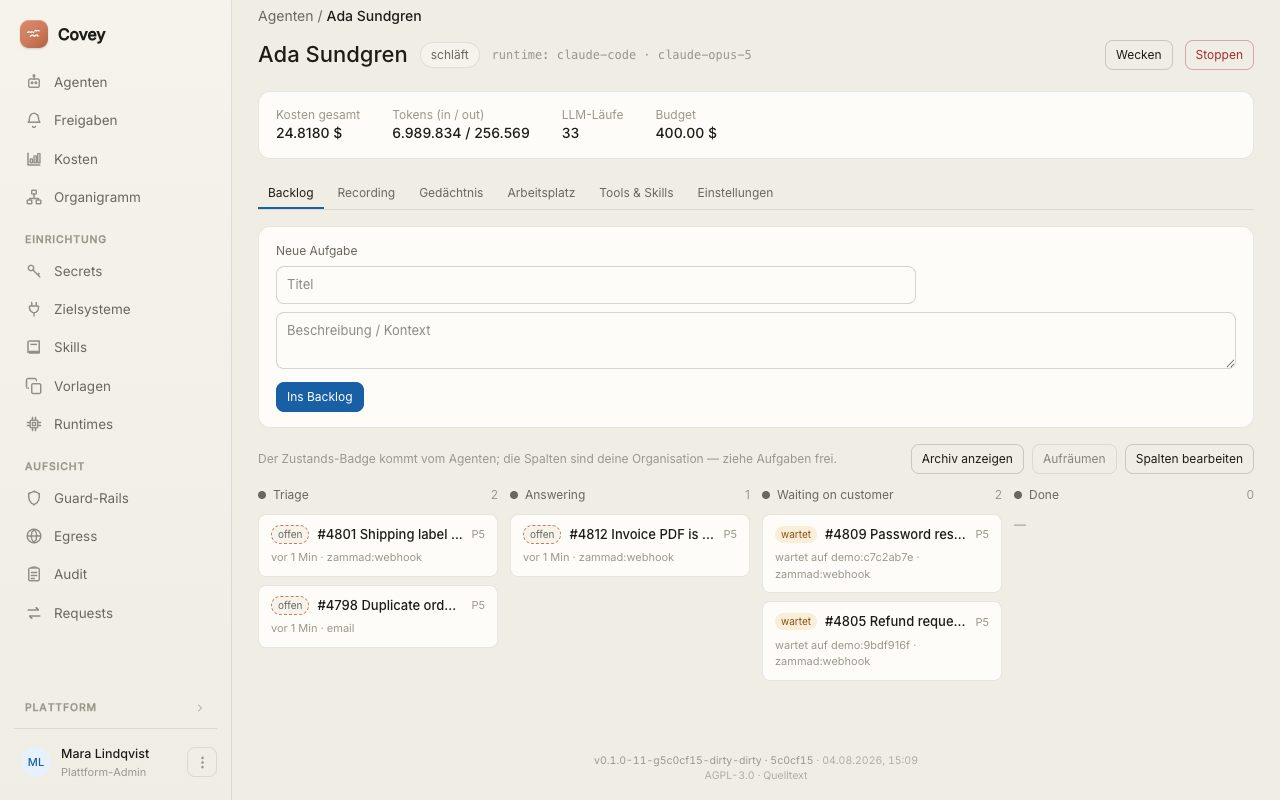
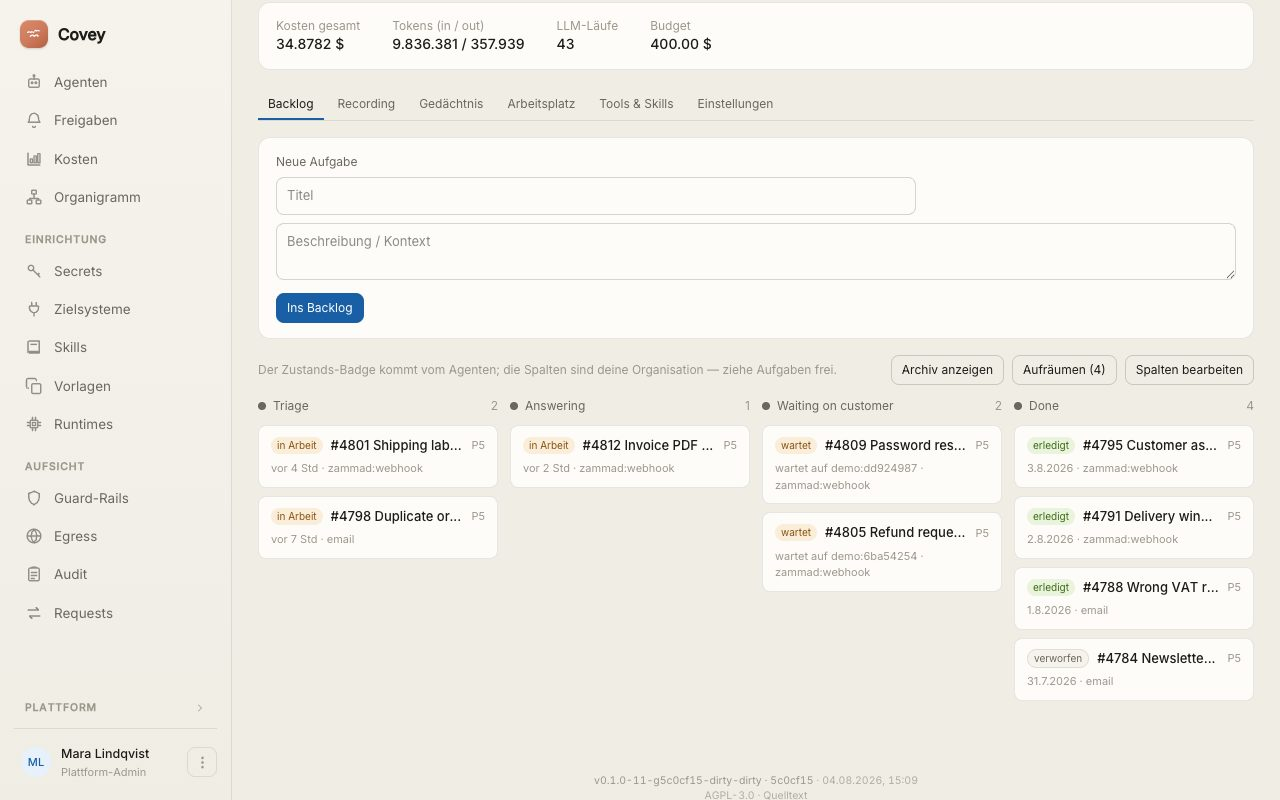
Bilder aus einem Zustand neu aufgenommen
Der deutsche Satz war Minuten nach dem englischen entstanden — dazwischen
hatte die Control Plane die in_progress-Aufgaben requeued und der Dispatcher
die Agenten geweckt. Beide Saetze zeigen jetzt dieselbe Organisation.

demo/README nennt die Reihenfolge samt Grund: erst serve, dann seed, dann
aufnehmen.

diff --git a/demo/README.md b/demo/README.md
@@ -48,6 +48,15 @@ docker rm -f covey-demo-pg
 The results land in `web/public/shots/`: `<view>.jpg` and `<view>.de.jpg` for the
 two READMEs, plus `tour.gif` and `tour.de.gif`.
 
+**Seed after the server is up, and record both languages in one go.** The
+control plane requeues every `in_progress` task to `open` when it starts
+(`RequeueOrphaned` — a task in progress without a live session is an orphan
+after a restart). Seed before that and the board is reset before you photograph
+it; the dispatcher then picks the open tasks up and the agents show as woken. So:
+start `covey serve`, *then* seed, then record. The heartbeats in the seeded
+configs fire on an interval, which gives you a comfortable window — but not an
+unlimited one.
+
 ## Two things that will surprise you
 
 **No task in the seed is `open`.** A running control plane claims every open task
